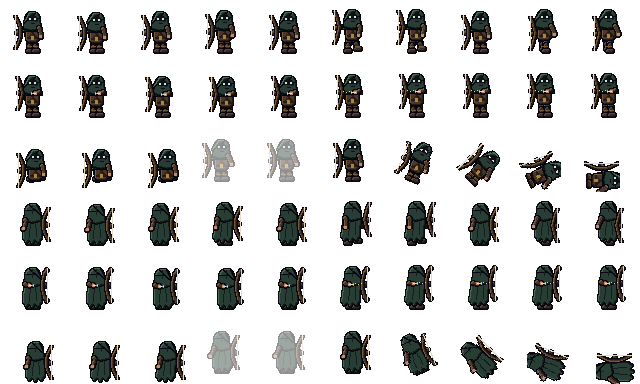
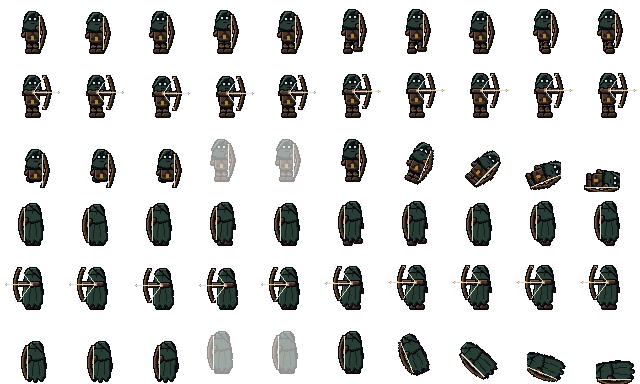
Arqueiro: o arco vai na mao da frente, com a barriga para o alvo e a corda puxada pela mao de tras (antes estava invertido)

diff --git a/tools/gen_heroes.py b/tools/gen_heroes.py
@@ -241,12 +241,19 @@ def archer(cv, back, p, anim):
         cv.line((cx - 2, top + 3), (cx - 3 + wob * 0.5, hem - 3), GREEN[0])
         cv.line((cx + 3, top + 3), (cx + 4 + wob * 0.5, hem - 4), GREEN[0])
 
-    # braço de trás (segura o arco) — ângulo muda no ataque
-    oa = p.off * -fx
-    ox, oy = pt(cx - 7 * fx, top + 3, oa - 0.9 * fx, 9)
-    if anim in ("attack", "skill"):
-        ox, oy = cx - 7 * fx + fx * -1 * 6, top + 4
-    cv.part(lambda d: thick(d, (cx - 7 * fx, top + 3), (ox, oy), 4), LEATHER)
+    # O arco fica na mão da FRENTE (braço esticado para o alvo); a mão de TRÁS puxa a corda até o rosto.
+    drawing = anim in ("attack", "skill")
+    sh_f = (cx + 6 * fx, top + 3)  # ombro da frente
+    sh_b = (cx - 6 * fx, top + 3)  # ombro de trás
+    if drawing:
+        ox, oy = cx + 15 * fx, top + 3  # mão do arco, braço esticado
+        hx, hy2 = cx + 1 * fx, top + 3  # mão da corda junto ao rosto
+    else:
+        swing = int(p.step * 0.25)
+        ox, oy = cx + 10 * fx + swing * fx, top + 7  # arco baixo, na frente
+        hx, hy2 = cx - 8 * fx - swing * fx, top + 10  # mão de trás solta ao lado do corpo
+    if not drawing:
+        cv.part(lambda d: thick(d, sh_b, (hx, hy2), 4), LEATHER)  # relaxado: o braço de trás fica atrás do tronco
 
     # tronco: gibão de couro com tiras cruzadas
     cv.part(lambda d: d.rounded_rectangle([cx - 6, top, cx + 6, hip + by + 1], radius=3, fill=255), LEATHER)
@@ -277,31 +284,32 @@ def archer(cv, back, p, anim):
     else:
         cv.line((cx, hy - 6), (cx, hy + 2), GREEN[0])
 
-    # braço da frente puxando a corda
-    a = p.arm * fx
-    shx, shy = cx + 7 * fx, top + 3
-    hx, hy2 = pt(shx, shy, a * 0.5, 9)
-    if anim in ("attack", "skill"):
-        hx, hy2 = cx + 7 * fx - fx * 4, top + 4  # mão junto ao rosto, corda esticada
-    cv.part(lambda d: thick(d, (shx, shy), (hx, hy2), 4), LEATHER)
-    cv.rect(hx - 1, hy2 - 1, hx + 1, hy2 + 1, SKIN[1])
+    # braço da frente segura o arco; em ataque o braço de trás (puxando a corda) aparece na frente do tronco
+    if drawing:
+        cv.part(lambda d: thick(d, sh_b, (hx, hy2), 4), LEATHER)
+    cv.part(lambda d: thick(d, sh_f, (ox, oy), 4), LEATHER)
+    cv.rect(ox - 1, oy - 1, ox + 1, oy + 1, SKIN[1])
+    if drawing:
+        cv.rect(hx - 1, hy2 - 1, hx + 1, hy2 + 1, SKIN[1])
 
-    # arco longo de osso e madeira escura (na mão de trás)
+    # arco longo de osso e madeira escura: a barriga (madeira) aponta para o ALVO (frente) e a corda fica do lado do arqueiro
     bx, by2 = ox, oy
     span = 16
-    bow = [(bx + fx * 4 - (k * 0.0), by2 - span + (k * 2 * span / 8.0)) for k in range(9)]
-    # arco curvo: pontos numa parábola
     pts = []
     for k in range(9):
         t = k / 8.0 * 2 - 1
-        pts.append((bx + fx * (3 - 5 * t * t), by2 + t * span))
+        pts.append((bx + fx * (2 - 4.5 * t * t), by2 + t * span))
     cv.part(lambda d: d.line(pts, fill=255, width=3), WOODC)
-    cv.line(pts[0], pts[-1], ASH[2])  # corda
-    cv.px(pts[0][0], pts[0][1] - 1, ASH[2]); cv.px(pts[-1][0], pts[-1][1] + 1, ASH[2])
-    if anim in ("attack", "skill"):
-        # flecha encaixada
-        cv.line((hx, hy2), (bx + fx * 12, by2), ASH[2])
-        cv.px(bx + fx * 13, by2, STEEL[2]); cv.px(bx + fx * 12, by2 - 1, STEEL[2]); cv.px(bx + fx * 12, by2 + 1, STEEL[2])
+    for q in (pts[0], pts[-1]):  # pontas de osso
+        cv.px(q[0], q[1], ASH[2])
+    if drawing:
+        # corda puxada até a mão, flecha encaixada apontando para o alvo
+        cv.line(pts[0], (hx, hy2), ASH[2])
+        cv.line((hx, hy2), pts[-1], ASH[2])
+        cv.line((hx, hy2), (bx + fx * 11, by2), ASH[2])
+        cv.px(bx + fx * 12, by2, STEEL[2]); cv.px(bx + fx * 11, by2 - 1, STEEL[2]); cv.px(bx + fx * 11, by2 + 1, STEEL[2])
+    else:
+        cv.line(pts[0], pts[-1], ASH[2])  # corda reta
     if p.glow:
         for k in range(4):
             cv.px(bx + fx * (4 + k * 3), by2 - 1 + (k % 2), EMBER[2])
